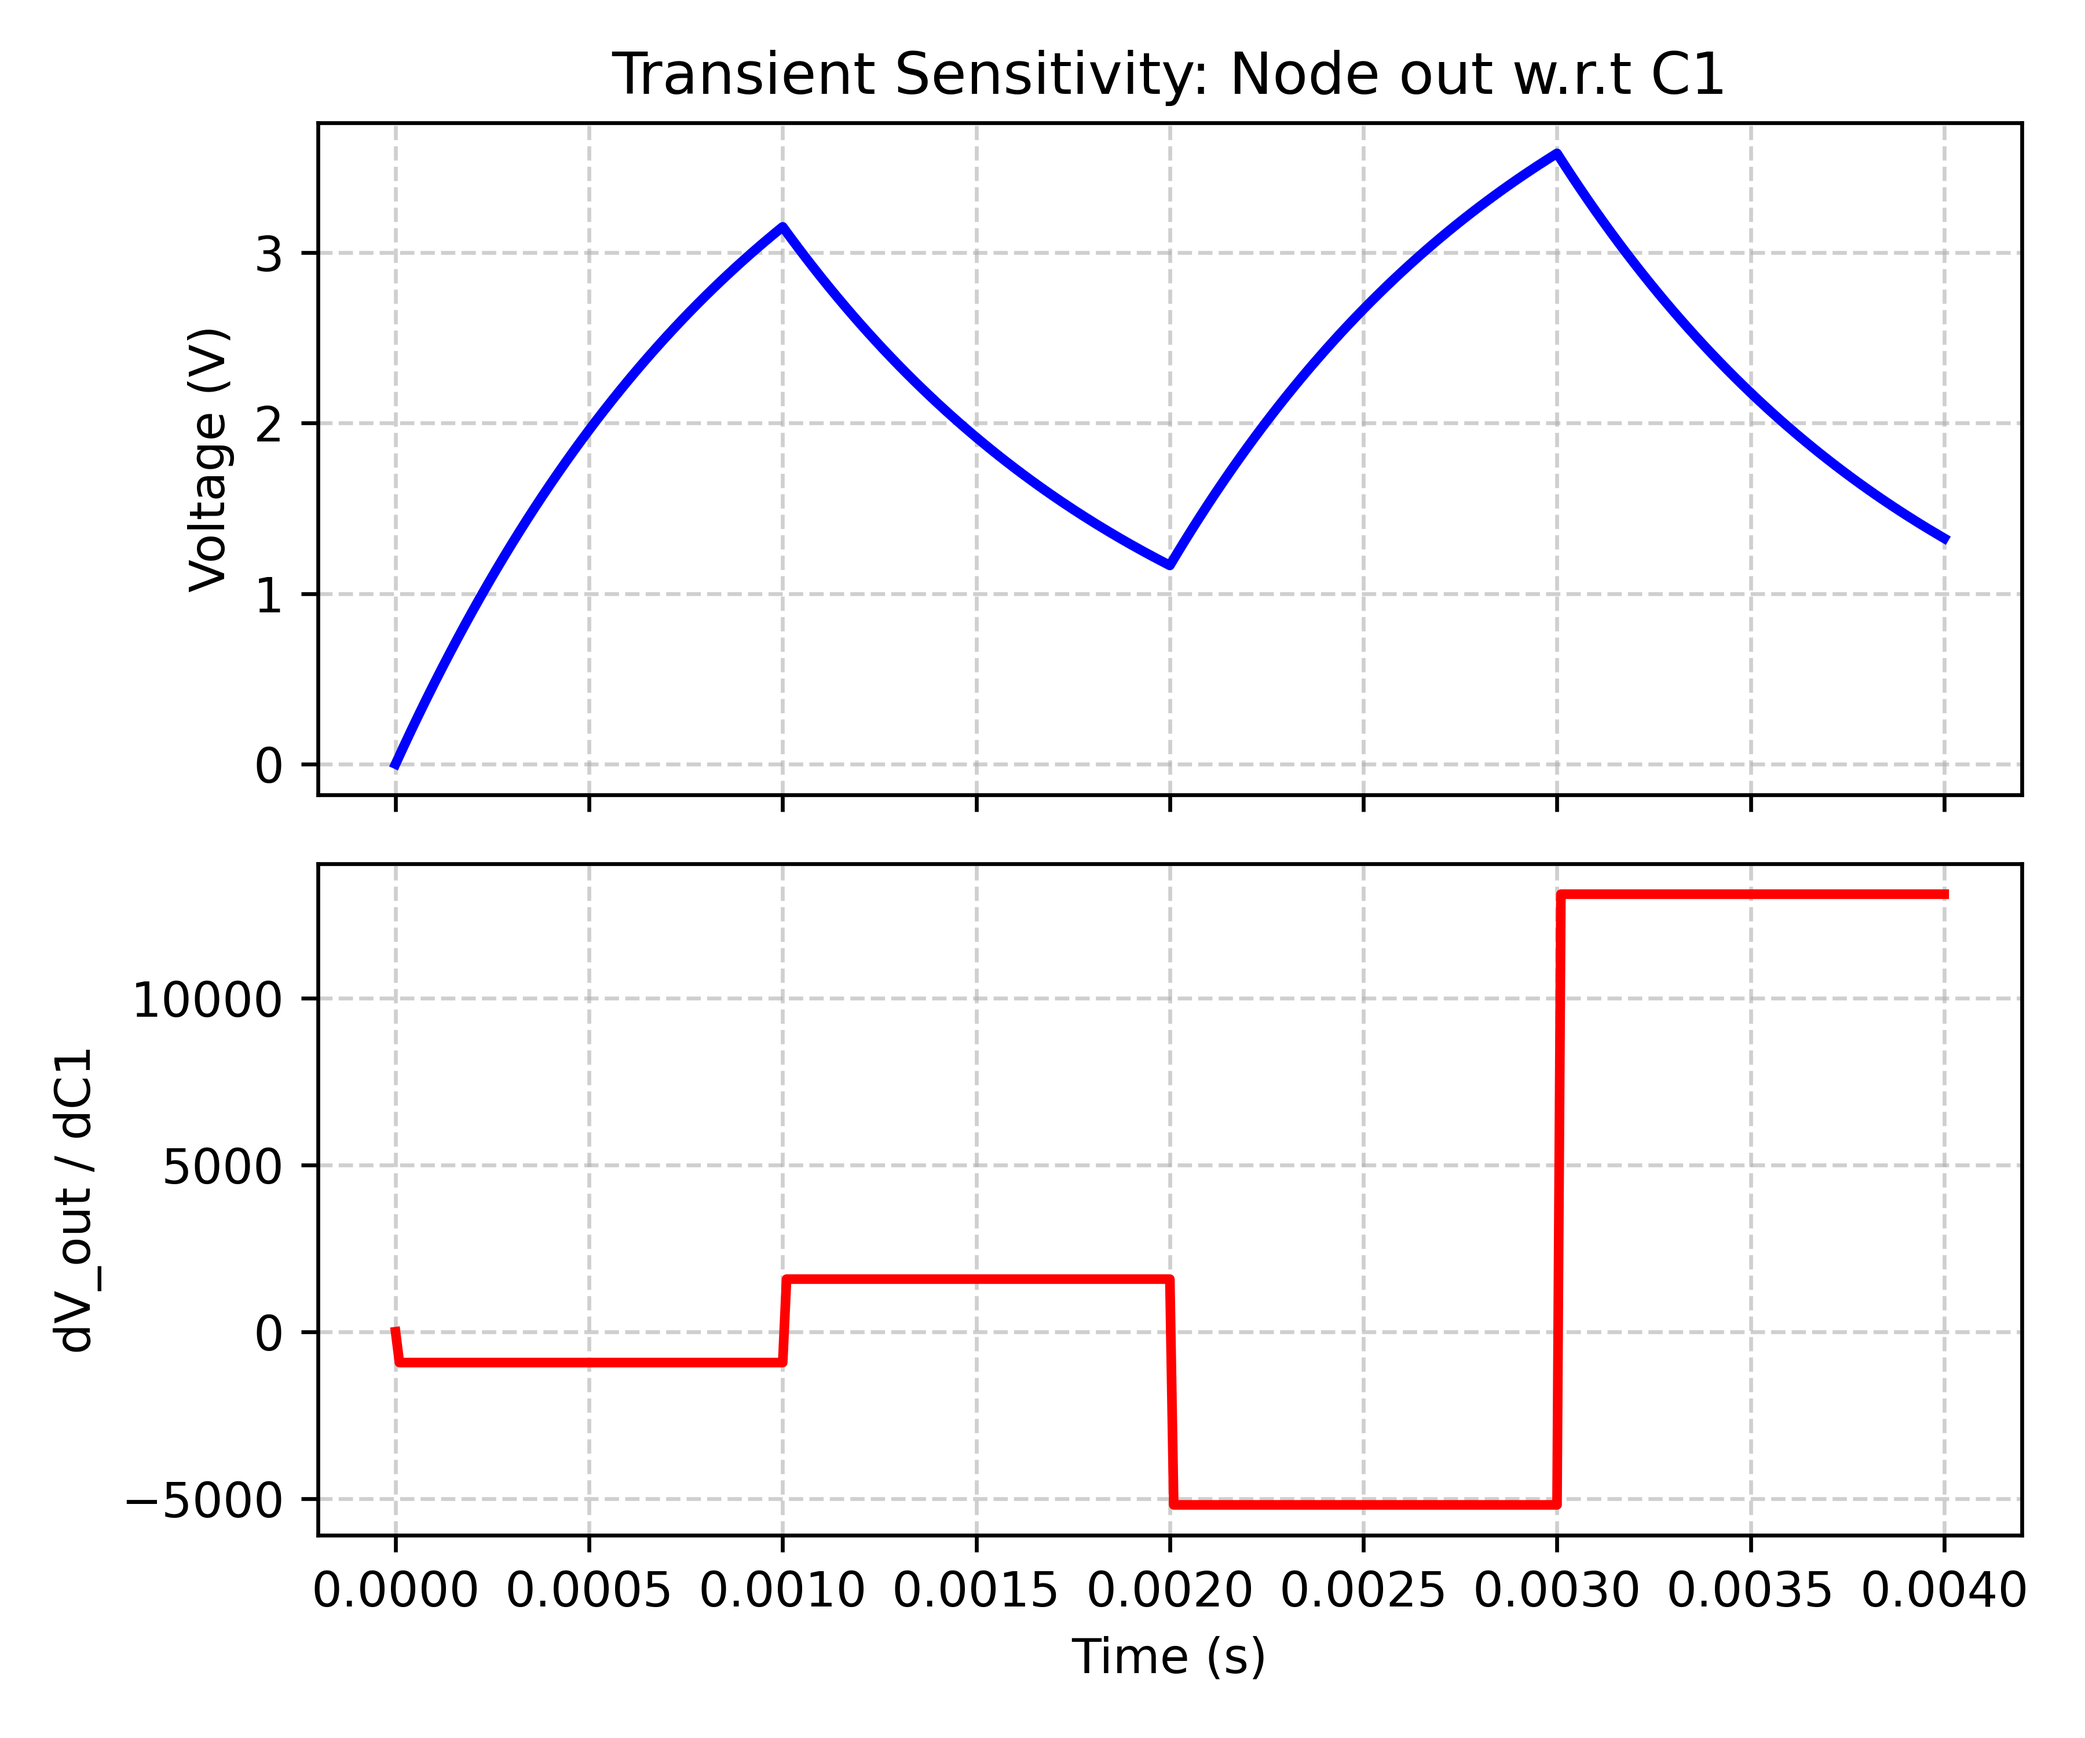
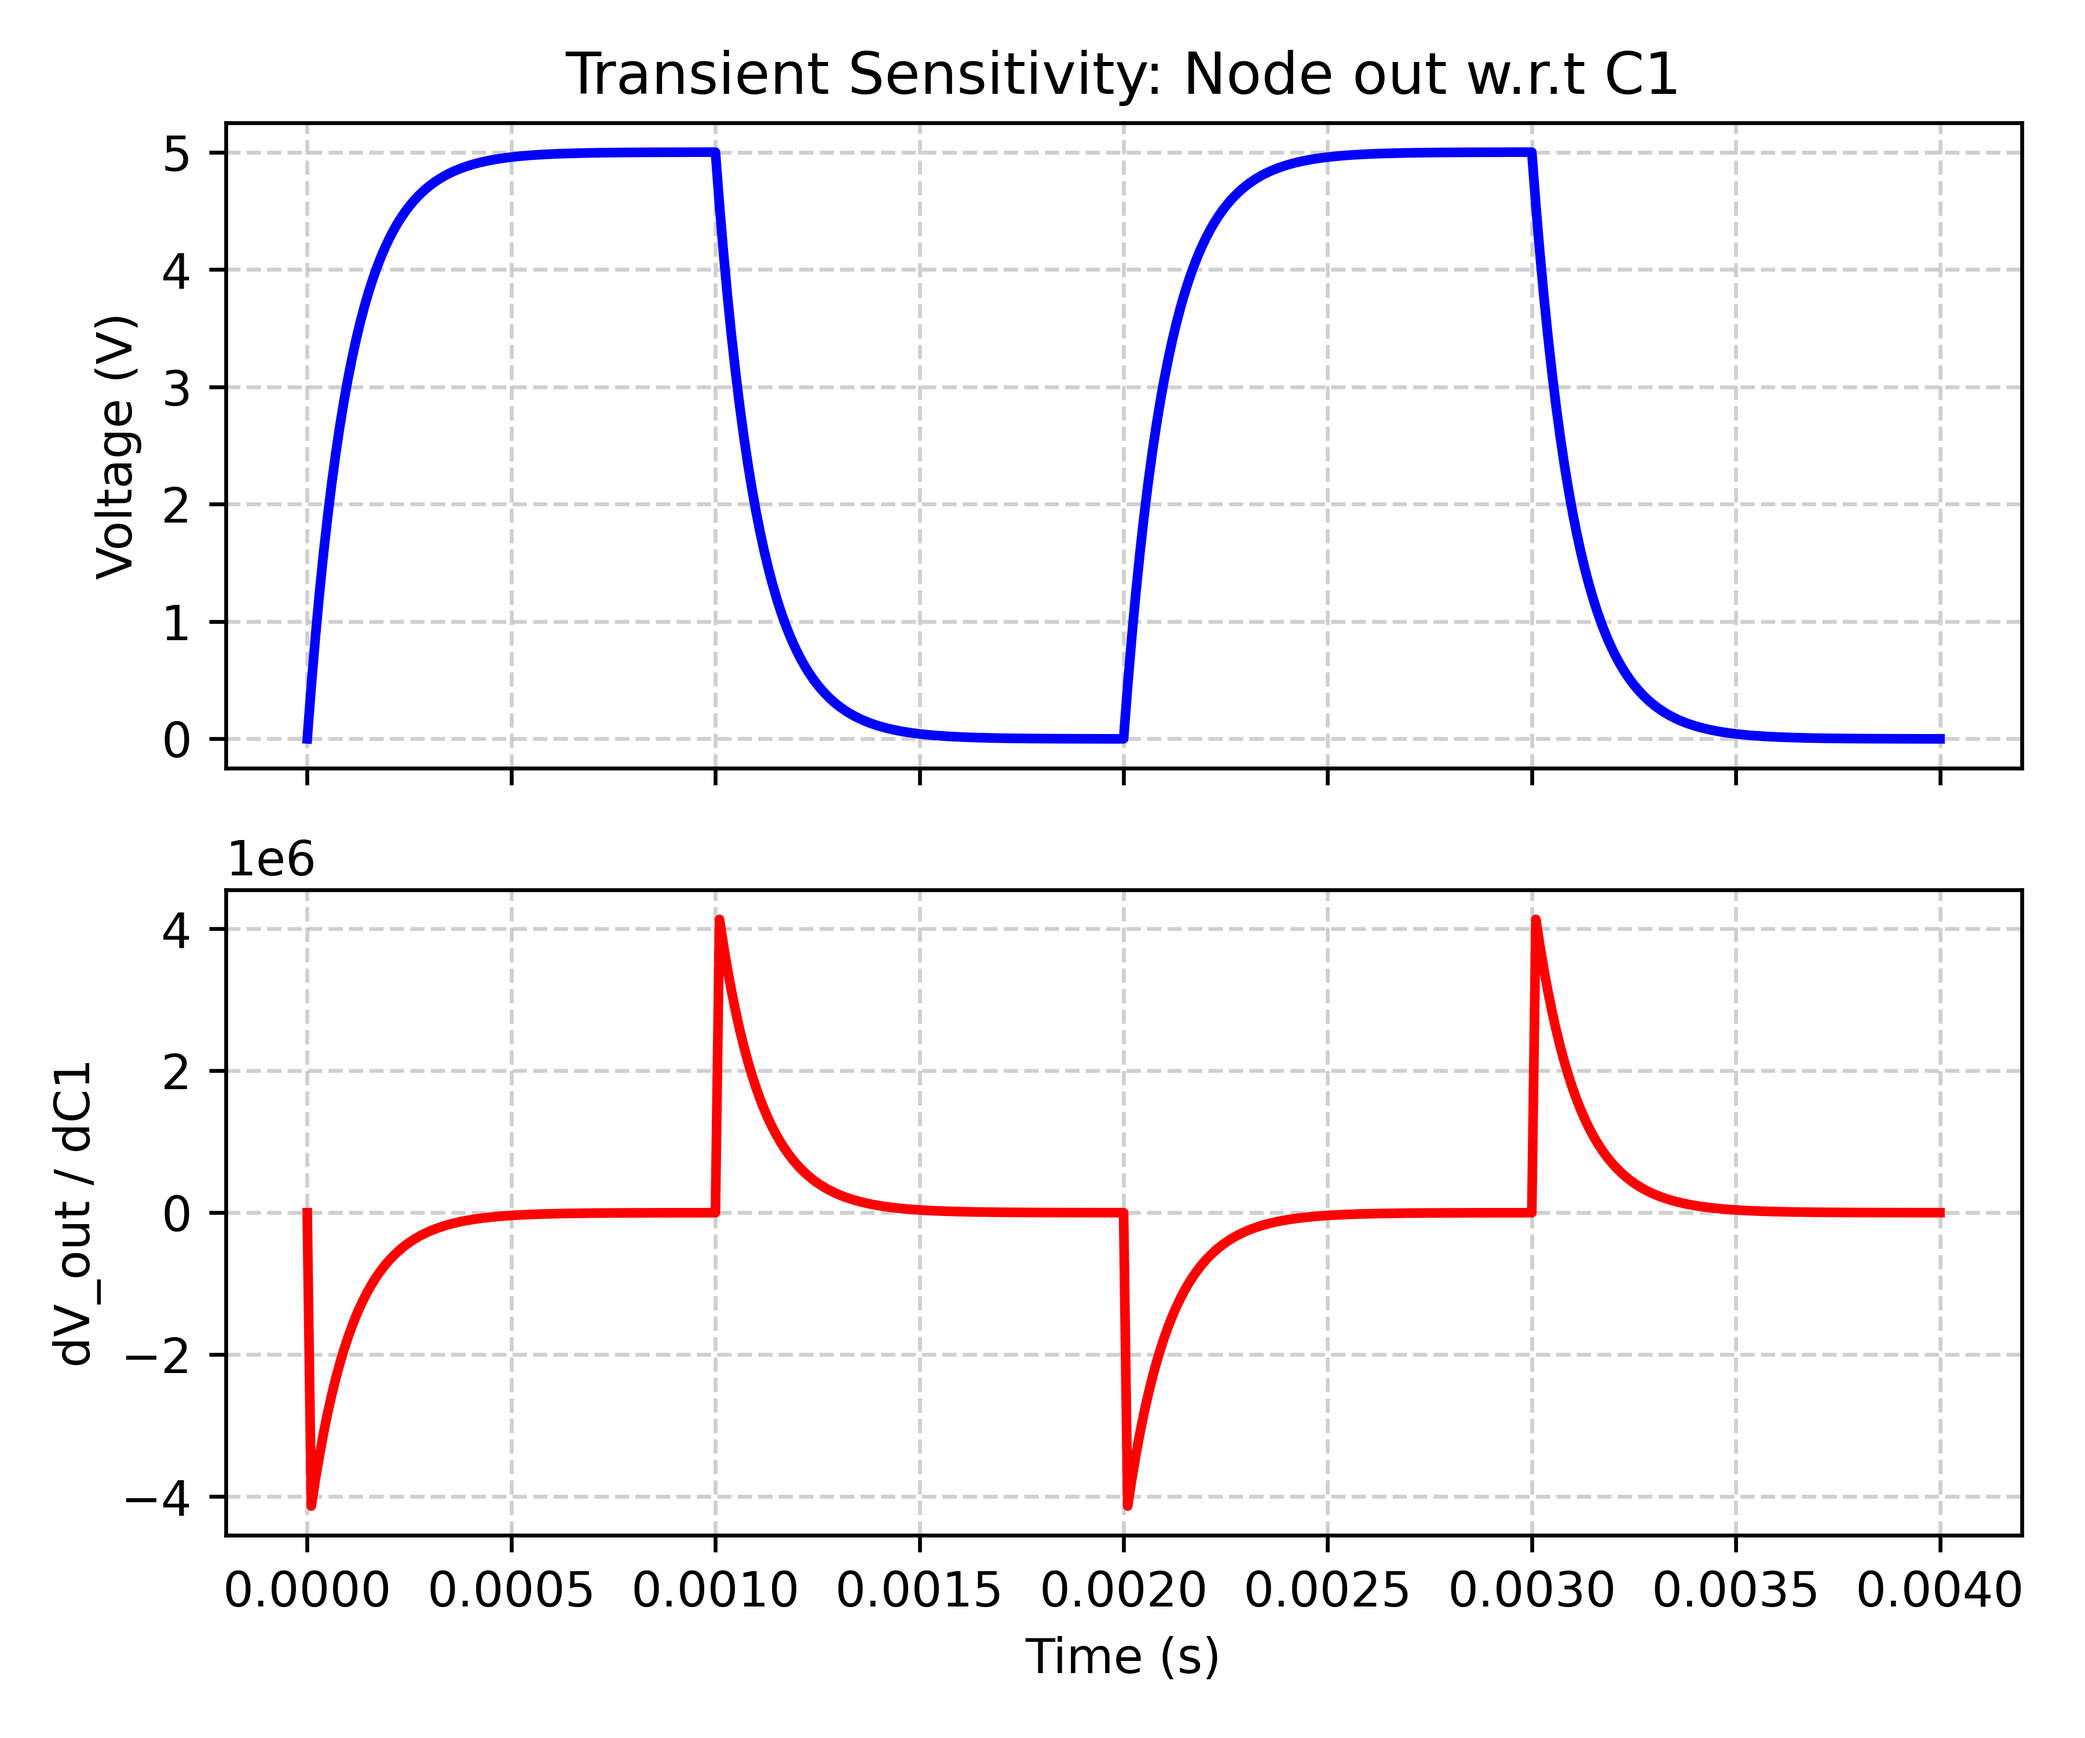
Standard sensitivities for transient analysis are now implemented and default. At each sweep point we go back in time and exactly one time step, not the entire sweep axis.

diff --git a/src_oop/core/results.py b/src_oop/core/results.py
@@ -114,26 +114,31 @@ class SimulationResult:
             exact_key = self._resolve_node_key(node)
         except ValueError:
             return []
-            
+        
         if self.type == ".TRAN":
-            integ_dict = self.sensitivities.get("Integrated_Transient", {})
-            return list(integ_dict.get(exact_key, {}).keys())
+            # Check the new default Continuous Local DC first, then fallback to Integrated
+            if "Continuous_Local_DC" in self.sensitivities:
+                return list(self.sensitivities["Continuous_Local_DC"].get(exact_key, {}).keys())
+            elif "Integrated_Transient" in self.sensitivities:
+                return list(self.sensitivities["Integrated_Transient"].get(exact_key, {}).keys())
+            return []
             
         elif self.type in [".AC", ".DC", ".OP"]:
             return list(self.sensitivities.get(exact_key, {}).keys())
             
         return []
 
-    def get_sensitivity(self, node, param, output_format="integrated"):
+    def get_sensitivity(self, node, param, output_format="local_dc"):
         """Retrieves the parameter sensitivity for a specified output node.
 
         Args:
             node (str or int): The name of the objective output node.
             param (str): The component parameter name (e.g., 'C1', 'M1_W').
             output_format (str, optional): Only applies to TRAN analysis. 
-                - "integrated": Returns the final scalar sensitivity integral (default).
-                - "series": Returns the raw backward-traveling time-series array.
-                - "accumulator": Returns the cumulative sum (running integral) over time.
+                - "local_dc": (DEFAULT) Continuous waveform (delta-v(t)) from Local DC Adjoint.
+                - "integrated": The final scalar sensitivity integral (Global Adjoint).
+                - "series": The raw backward-traveling time-series array (Global Adjoint).
+                - "accumulator": The cumulative sum (running integral) over time (Global Adjoint).
 
         Returns:
             float or np.ndarray: The requested sensitivity scalar or array.
@@ -147,17 +152,22 @@ class SimulationResult:
 
         exact_key = self._resolve_node_key(node)
 
-        
-
         if self.type == ".TRAN":
+            local_dc_dict = self.sensitivities.get("Continuous_Local_DC", {})
             time_series_dict = self.sensitivities.get("Time_Series", {})
             integrated_dict = self.sensitivities.get("Integrated_Transient", {})
 
-            if exact_key not in time_series_dict:
-                raise KeyError(f"No sensitivity data calculated for output node '{exact_key}'.")
+            # 1. New Default: Continuous Local DC Adjoint Waveform
+            if output_format == "local_dc":
+                if exact_key not in local_dc_dict or param not in local_dc_dict[exact_key]:
+                    raise KeyError(f"Local DC sensitivity for node '{exact_key}' and param '{param}' not found.")
+                return local_dc_dict[exact_key][param]
 
+            # 2. Global Adjoint Formats (Integrated, Series, Accumulator)
+            if exact_key not in time_series_dict:
+                raise KeyError(f"No global adjoint data calculated for output node '{exact_key}'.")
             if param not in time_series_dict[exact_key]:
-                raise KeyError(f"Parameter '{param}' not found in sensitivities. Known parameters: {list(time_series_dict[exact_key].keys())}")
+                raise KeyError(f"Parameter '{param}' not found. Known parameters: {list(time_series_dict[exact_key].keys())}")
 
             if output_format == "series":
                 return time_series_dict[exact_key][param]
@@ -166,7 +176,10 @@ class SimulationResult:
             elif output_format == "integrated":
                 return integrated_dict[exact_key].get(param, 0.0)
             else:
-                raise ValueError(f"Unknown output_format: '{output_format}'. Choose 'integrated', 'series', or 'accumulator'.")
+                raise ValueError(
+                    f"Unknown output_format: '{output_format}'. "
+                    "Choose 'local_dc', 'integrated', 'series', or 'accumulator'."
+                )
                 
         # Steady-State Analyses (.AC, .DC, .OP)
         elif self.type in [".AC", ".DC", ".OP"]:

diff --git a/src_oop/engines/adjoint_engine.py b/src_oop/engines/adjoint_engine.py
@@ -135,6 +135,59 @@ class AdjointEngine:
         return {"Integrated_Transient": all_integrated, "Time_Series": all_time_series}
 
     # ====================================================
+    # CONTINUOUS LOCAL ADJOINT (The "Frozen Time" Forward Sweep)
+    # ====================================================
+    def compute_continuous_local_adjoint(self, time_array, V_forward, list_of_lus, dt):
+        """Calculates continuous sensitivity waveforms using the Local DC Adjoint method.
+
+        Steps forward in time, treating each discretized transient step as a frozen 
+        DC snapshot.
+
+        Args:
+            time_array (np.ndarray): The simulation time vector.
+            V_forward (np.ndarray): The 2D solution matrix from the forward run.
+            list_of_lus (list): Cached LU factorizations from the forward pass.
+            dt (float): The time step size used in the forward Backward Euler pass.
+
+        Returns:
+            dict: A nested dictionary mapping target nodes -> parameters -> time-series arrays.
+        """
+        all_series = {}
+        num_steps = len(time_array)
+
+        for target_node in self.output_nodes:
+            target_series = {}
+            print(f"--- Running Local DC Adjoint Sweep for '{target_node}' ---")
+            
+            for i in range(num_steps):
+                # 1. DRY Transposed Solve (The "Freezing Time" step)
+                # We use the exact same _solve_adjoint method used by AC and DC sweeps!
+                psi_local = self._solve_adjoint(list_of_lus[i], target_node)
+
+                # 2. Setup V_prev for dynamic components (Capacitors, Inductors)
+                vi_step = V_forward[i]
+                vi_prev = V_forward[i-1] if i > 0 else vi_step 
+
+                # 3. Calculate Local Gradients
+                for comp in self.circuit.components:
+                    # By passing dt and V_prev, dynamic components automatically use
+                    # their discretized DC-equivalent derivatives.
+                    step_sens = comp.get_sensitivities(VI=vi_step, PsiPhi=psi_local, dt=dt, V_prev=vi_prev)
+                    
+                    for param, val in step_sens.items():
+                        if param not in target_series: 
+                            target_series[param] = []
+                        target_series[param].append(val)
+
+            # 4. Convert to numpy arrays for fast plotting
+            for param in target_series:
+                target_series[param] = np.array(target_series[param])
+                
+            all_series[target_node] = target_series
+
+        return all_series
+
+    # ====================================================
     # STEADY-STATE SENSITIVITY (.DC, .OP, and .AC)
     # ====================================================
     def compute_sweep(self, V_forward, list_of_lus, freq_array=None):

diff --git a/src_oop/main.py b/src_oop/main.py
@@ -45,7 +45,7 @@ def run_simulation_core(netlist_path, output_nodes=None, sensitivity=False, keep
 
 if __name__ == "__main__":
     # --- Configuration ---
-    netlist = "cas_lc_filter_tran" # rc_lowpass
+    netlist = "rc_transient" # rc_lowpass
     file_path = f"../testfiles/{netlist}.txt"
     target_node = 3 # The plotting tools now handle single strings or lists automatically!
     target_component = "C2" 
@@ -54,7 +54,7 @@ if __name__ == "__main__":
     circuit, result = run_simulation_core(
         file_path, 
         output_nodes=[target_node], 
-        sensitivity=False
+        sensitivity=True
     )
 
     # --- Post-Processing & Visualization ---
@@ -76,9 +76,9 @@ if __name__ == "__main__":
         calculated_params = result.get_sensitivity_parameters(target_node)
             
         if calculated_params:
-            print(f"\n=== INTEGRATED TRANSIENT SENSITIVITIES FOR V({target_node}) ===")
+            print(f"\n=== TRANSIENT SENSITIVITIES FOR V({target_node}) ===")
             for param in calculated_params:
-                val = result.get_sensitivity(target_node, param, output_format="integrated")
+                val = result.get_sensitivity(target_node, param, output_format="integrated") # Default
                 print(f"  {param:<15} : {val:+.6e}")
             
             if target_component in calculated_params:
@@ -86,6 +86,7 @@ if __name__ == "__main__":
                     result, 
                     target_node, 
                     target_component=target_component, 
+                    format="local_dc", # Default
                     folder="../figures/tran", 
                     name=f"{netlist}_tran_sens"
                 )

diff --git a/src_oop/utils/plotting.py b/src_oop/utils/plotting.py
@@ -115,7 +115,7 @@ def plot_transient(result, output_nodes=None, folder="./figures/tran", name="tra
     fig.savefig(f"{folder}/{name}.png", dpi=600)
     plt.close(fig)
 
-def plot_transient_sensitivity(result, output_node, target_component, folder="./figures/tran", name="tran_sensitivity"):
+def plot_transient_sensitivity(result, output_node, target_component, format, folder="./figures/tran", name="tran_sensitivity"):
     """Plots Transient Voltage alongside the Transient Sensitivity series over time."""
     if isinstance(output_node, (list, tuple)):
         output_node = output_node[0] 
@@ -124,7 +124,7 @@ def plot_transient_sensitivity(result, output_node, target_component, folder="./
     
     time = result.sweep_axis
     V_out = result.get_voltage(output_node)
-    sens_array = result.get_sensitivity(output_node, target_component, output_format="series")
+    sens_array = result.get_sensitivity(output_node, target_component, output_format=format)
 
     fig, (ax1, ax2) = plt.subplots(2, 1, figsize=(6, 5), sharex=True)
     

diff --git a/src_oop/engines/simulator.py b/src_oop/engines/simulator.py
@@ -94,7 +94,15 @@ class Simulator:
             
             if sensitivity:
                 adj_engine = AdjointEngine(self.circuit, self.output_nodes)
-                result.sensitivities = adj_engine.compute_transient(time, VI, lus, dt)
+                adjoint_results = {}
+
+                global_sens = adj_engine.compute_transient(time, VI, lus, dt)
+                adjoint_results.update(global_sens) # Adds "Time_Series" and "Integrated_Transient"
+
+                local_sens = adj_engine.compute_continuous_local_adjoint(time, VI, lus, dt)
+                adjoint_results["Continuous_Local_DC"] = local_sens
+
+                result.sensitivities = adjoint_results
                 
             return result
 
